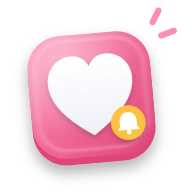
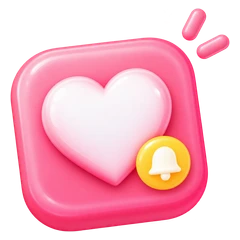
디자인 개선: 가게 마스코트(홈 인사 카드·첫 실행·진단 결과·빈 화면·리뷰 창), 화면 위 그림 20개 고급 입체로 교체, 작은 입체 아이콘 22개(알림 설정·MY·도움말·서류·홈 일정), 지원금마다 다른 그림 25장(지역 풍경)

diff --git a/src/App.jsx b/src/App.jsx
@@ -107,7 +107,12 @@ import toolFaqImg from "./assets/home-tiles/tool-faq-icon.webp";
 import toolDocsImg from "./assets/home-tiles/tool-docs-icon.webp";
 import calcArtImg from "./assets/home-tiles/calc-art.webp";
 import noticeImg from "./assets/home-tiles/notice.webp";
-import heroMegaImg from "./assets/home-tiles/hero-mega.webp";
+import mascotCoinImg from "./assets/mascot/coin.webp";
+import mascotHelloImg from "./assets/mascot/hello.webp";
+import mascotCheerImg from "./assets/mascot/cheer.webp";
+import mascotEmptyImg from "./assets/mascot/empty.webp";
+import mascotSearchImg from "./assets/mascot/search.webp";
+import mascotBellImg from "./assets/mascot/bell.webp";
 import ctaCoinImg from "./assets/home-tiles/cta-coin.webp";
 import newsFundImg from "./assets/news/fund.webp";
 import newsFixedImg from "./assets/news/fixed.webp";
@@ -675,7 +680,7 @@ function ReviewAskDialog({ callName, stats, onExit, onReview, onClose }) {
   return (
     <div className="fixed inset-0 flex items-center justify-center px-4" style={{ zIndex: 70, background: "rgba(20,24,36,0.55)" }} onClick={onClose}>
       <div onClick={(e) => e.stopPropagation()} className="w-full rounded-[26px] bg-white px-5 pt-7 pb-4 text-center" style={{ maxWidth: 340, boxShadow: "0 20px 50px rgba(0,0,0,0.25)" }}>
-        <img src="/icons/icon-192.png" alt="" className="w-[68px] h-[68px] mx-auto rounded-[20px]" style={{ boxShadow: "0 8px 18px rgba(214,140,20,0.25)" }} />
+        <img src={mascotCoinImg} alt="" draggable={false} className="w-[104px] h-[104px] mx-auto object-contain -mt-2" />
         <div className="flex justify-center gap-1 mt-3.5">
           {[0, 1, 2, 3, 4].map((i) => (
             <Star key={i} size={22} fill="#FFC23D" strokeWidth={0} />
@@ -1192,9 +1197,7 @@ function NicknameScreen({ initial = "", firstRun, onSave, onSkip, onBack }) {
     <div className={firstRun ? "pt-8" : ""}>
       {firstRun ? (
         <div className="text-center mb-7">
-          <div className="w-20 h-20 mx-auto rounded-[26px] flex items-center justify-center mb-4" style={{ background: "linear-gradient(135deg, #6AAEFE, #3E72F6)", boxShadow: "0 10px 24px rgba(62,114,246,0.3)" }}>
-            <span className="text-[38px]">👋</span>
-          </div>
+          <img src={mascotHelloImg} alt="" draggable={false} className="w-[132px] h-[132px] mx-auto mb-3 object-contain" />
           <p className="text-[22px] font-extrabold" style={{ color: TEXT }}>반가워요!</p>
           <p className="text-[15px] mt-1.5" style={{ color: "#5E6577" }}>어떻게 불러드릴까요?</p>
         </div>
@@ -1682,6 +1685,17 @@ const CATEGORY_IMAGES = {
   신용: catCredit,
   재기: catRestart,
 };
+// 지원금마다 다른 그림: 전국 사업은 하는 일, 지역 사업은 그 지역 풍경 (없으면 분야 그림)
+const PROGRAM_IMG_FILES = import.meta.glob("./assets/prog/*.webp", { eager: true, import: "default" });
+const PROGRAM_IMG_KEY = {
+  voucher: "voucher", 1: "p1", 4: "p4", 23: "p23", 24: "p24", 25: "p25", 103: "p103", 102: "p102", 5: "p5",
+  2: "seoul", 3: "gyeonggi", 7: "daegu", 8: "incheon", 11: "gangwon", 12: "jeju", 13: "gwangju", 14: "daejeon", 15: "daejeon",
+  16: "gyeongnam", 17: "ulsan", 18: "chungbuk", 19: "sejong", 21: "chungnam", 22: "jeonbuk", 26: "hampyeong",
+};
+// 작은 입체 아이콘 (설정 줄·메뉴 등) — 이름으로 불러요
+const MINI_IMG_FILES = import.meta.glob("./assets/mini/*.webp", { eager: true, import: "default" });
+const mini = (name) => MINI_IMG_FILES[`./assets/mini/${name}.webp`];
+const programImage = (p) => PROGRAM_IMG_FILES[`./assets/prog/${PROGRAM_IMG_KEY[p.id]}.webp`] || CATEGORY_IMAGES[p.category];
 const CATEGORY_COLORS = {
   고정비: { color: "white", bg: "#22B573", bg2: "#3DDB94" },
   에너지: { color: "white", bg: "#EA9A1E", bg2: "#FBC15B" },
@@ -1853,8 +1867,8 @@ function ProgramSummaryCard({ program }) {
       className="relative overflow-hidden rounded-[24px] p-4 mb-3 flex items-center gap-3.5"
       style={{ background: `linear-gradient(135deg, ${groupOf(program).color}2E 0%, #FFFFFF 85%)`, border: "1px solid #EEF0F6" }}
     >
-      {CATEGORY_IMAGES[program.category] ? (
-        <img src={CATEGORY_IMAGES[program.category]} alt="" className="w-16 h-16 shrink-0 object-contain -my-1" />
+      {programImage(program) ? (
+        <img src={programImage(program)} alt="" className="w-16 h-16 shrink-0 object-contain -my-1" />
       ) : (
       <div
         className="w-14 h-14 rounded-full flex items-center justify-center shrink-0 relative overflow-hidden"
@@ -2876,6 +2890,8 @@ function CenterMapPreview({ center }) {
   );
 }
 // 자주 묻는 질문 (지원금 기본 상식 + 세금 + 앱 사용법)
+// 도움말 분류별 작은 입체 아이콘
+const FAQ_CAT_IMG = { "지원금 기본": "coin", "신청 방법": "pen", 세금: "receipt", "앱 이용": "phone" };
 // top: true 는 "많이 묻는 질문"으로 맨 위에 보여줘요
 const FAQ_DATA = [
   { category: "지원금 기본", top: true, q: "저도 '소상공인'에 해당하나요?", a: "상시근로자(사장님 제외) 수로 판단해요. 음식점·도소매·서비스업 등은 5명 미만, 제조·건설·운수·광업은 10명 미만이면 소상공인이에요. 여기에 업종별 매출 기준(소기업 기준) 이하여야 해요. 정확한 확인은 '중소기업현황정보시스템(sminfo.mss.go.kr)'에서 소상공인 확인서를 발급받아 보시면 돼요." },
@@ -2969,7 +2985,8 @@ function FaqSearchScreen({ onBack }) {
           const active = category === c;
           const n = c === "전체" ? FAQ_DATA.length : FAQ_DATA.filter((f) => f.category === c).length;
           return (
-            <button key={c} onClick={() => setCategory(c)} className="px-3 py-1.5 rounded-full text-xs font-semibold whitespace-nowrap shrink-0" style={active ? CHIP_ON : CHIP_OFF}>
+            <button key={c} onClick={() => setCategory(c)} className="px-3 py-1.5 rounded-full text-xs font-semibold whitespace-nowrap shrink-0 inline-flex items-center gap-1" style={active ? CHIP_ON : CHIP_OFF}>
+              {FAQ_CAT_IMG[c] && <img src={mini(FAQ_CAT_IMG[c])} alt="" className="w-[18px] h-[18px] -my-1 object-contain" />}
               {c} <span className="opacity-70">{n}</span>
             </button>
           );
@@ -2978,7 +2995,8 @@ function FaqSearchScreen({ onBack }) {
       </div>
 
       {filtered.length === 0 ? (
-        <div className="text-center py-14 text-sm" style={{ color: MUTED }}>
+        <div className="text-center py-10 text-sm" style={{ color: MUTED }}>
+          <img src={mascotSearchImg} alt="" draggable={false} className="w-[110px] h-[110px] mx-auto mb-2 object-contain" />
           검색 결과가 없어요.
           <br />
           아래 상담 전화로 편하게 물어보세요.
@@ -3145,7 +3163,7 @@ function DocumentsScreen({ onBack }) {
           <div key={g.key} className="mb-5">
             <div className="flex items-center justify-between gap-2 mb-2 px-1">
               <div className="flex items-center gap-2 min-w-0">
-                <span className="w-1 h-4 rounded-full shrink-0" style={{ background: g.color }} />
+                <img src={mini({ hometax: "hometax", gov24: "gov", etc: "folder", self: "handpen" }[g.key])} alt="" className="w-9 h-9 shrink-0 object-contain" />
                 <div className="min-w-0">
                   <p className="text-[14px] font-bold" style={{ color: TEXT }}>
                     {g.title} <span className="text-[12px] font-semibold tabular-nums" style={{ color: MUTED }}>{done}/{g.docs.length}</span>
@@ -4117,6 +4135,7 @@ function DiagnosisResultScreen({ diagnosis, onBack, onRedo, onClear, onViewAll, 
       {/* 결과 요약 */}
       <div className="relative overflow-hidden rounded-[24px] p-5 mb-3" style={{ background: "linear-gradient(135deg, #5B8DF7 0%, #3D63DD 100%)" }}>
         <div className="absolute -right-10 -top-12 w-40 h-40 rounded-full" style={{ background: "rgba(255,255,255,0.08)" }} />
+        {open.length > 0 && <img src={mascotCheerImg} alt="" draggable={false} className="absolute pointer-events-none" style={{ right: 4, top: 4, width: "22%", maxWidth: 104 }} />}
         <div className="relative flex items-center gap-1.5 mb-1.5">
           <CheckCircle2 size={15} color="white" />
           <p className="text-[12.5px] text-white/80">{callName}이 지금 신청할 수 있는</p>
@@ -4285,7 +4304,7 @@ function ProgramRow({ p, onClick, actions, reason, highlight }) {
   const dday = getDday(p.deadline);
   const grp = groupOf(p);
   const cat = { bg: grp.color };
-  const img = CATEGORY_IMAGES[p.category];
+  const img = programImage(p);
   const CatIcon = CATEGORY_ICON[p.category] || FileText;
   const urgent = !p.recurring && dday >= 0 && dday <= 7;
   const closed = dday < 0 && !p.recurring;
@@ -4363,8 +4382,8 @@ function HomeScheduleList({ favorites, myEvents, taxStaff, onOpen }) {
         const dt = parseLocalDate(x.deadline);
         return (
           <button key={x.key} onClick={onOpen} className="w-full flex items-center gap-3 py-3" style={{ borderTop: i > 0 ? "1px solid #F1F2F6" : "none" }}>
-            <span className="w-8 h-8 rounded-full flex items-center justify-center text-[14px] shrink-0" style={{ background: t.bg }}>
-              {x.type === "my" ? x.emoji : x.type === "tax" ? "🧾" : "💙"}
+            <span className="w-8 h-8 rounded-full flex items-center justify-center text-[14px] shrink-0" style={{ background: x.type === "my" ? t.bg : "transparent" }}>
+              {x.type === "my" ? x.emoji : <img src={mini(x.type === "tax" ? "receipt" : "coin")} alt="" className="w-8 h-8 object-contain" />}
             </span>
             <span className="flex-1 min-w-0 text-left">
               <span className="block text-[13.5px] font-semibold truncate" style={{ color: TEXT }}>{x.name}</span>
@@ -5828,16 +5847,14 @@ export default function App() {
         <HeroHeader icon={Bell} color="#E5674D" image={heroAlertImg} title="알림 설정" subtitle="마감일·세금 신고일·금리 발표일" headline="미리 알려드려요!" onBack={() => setScreen({ view: "home" })} />
         <div className="rounded-[20px] overflow-hidden" style={CARD}>
           {[
-            { key: "deadline", icon: Bell, color: "#E5674D", bg: "#FDEEE9", title: "지원금 마감 알림", sub: "즐겨찾기에서 🔔 켠 지원금", on: notifyEnabled, toggle: toggleNotifyEnabled },
-            { key: "tax", icon: CalendarCheck, color: "#2C9F6B", bg: "#E7F7EF", title: "세금 신고·납부일 알림", sub: "부가세·종합소득세 등", on: taxAlertOn, toggle: toggleTaxAlert },
-            { key: "rate", icon: Landmark, color: BLUE, bg: BLUE_SOFT, title: "금리 발표일 알림", sub: "한국은행 기준금리 발표 당일", on: rateAlertOn, toggle: toggleRateAlert },
+            { key: "deadline", img: "bell", icon: Bell, color: "#E5674D", bg: "#FDEEE9", title: "지원금 마감 알림", sub: "즐겨찾기에서 🔔 켠 지원금", on: notifyEnabled, toggle: toggleNotifyEnabled },
+            { key: "tax", img: "taxcal", icon: CalendarCheck, color: "#2C9F6B", bg: "#E7F7EF", title: "세금 신고·납부일 알림", sub: "부가세·종합소득세 등", on: taxAlertOn, toggle: toggleTaxAlert },
+            { key: "rate", img: "bank", icon: Landmark, color: BLUE, bg: BLUE_SOFT, title: "금리 발표일 알림", sub: "한국은행 기준금리 발표 당일", on: rateAlertOn, toggle: toggleRateAlert },
           ].map((r, i) => (
             <div key={r.key} style={{ borderTop: i > 0 ? "1px solid #F1F2F6" : "none" }}>
               <div className="px-4 py-3.5 flex items-center justify-between gap-3">
                 <div className="flex items-center gap-3 min-w-0">
-                  <div className="w-10 h-10 rounded-full flex items-center justify-center shrink-0" style={{ background: r.bg }}>
-                    <r.icon size={17} color={r.color} />
-                  </div>
+                  <img src={mini(r.img)} alt="" draggable={false} className="w-10 h-10 shrink-0 object-contain" />
                   <div className="min-w-0">
                     <p className="text-sm font-semibold" style={{ color: TEXT }}>{r.title}</p>
                     <p className="text-[12px]" style={{ color: MUTED }}>{r.sub}</p>
@@ -5871,15 +5888,13 @@ export default function App() {
         <p className="text-[13px] font-bold mt-5 mb-2.5 px-1" style={{ color: TEXT }}>알림 방식</p>
         <div className="rounded-[20px] overflow-hidden" style={CARD}>
           {[
-            { key: "sound", icon: Volume2, color: BLUE, bg: BLUE_SOFT, title: "소리", sub: "알림음이 울려요" },
-            { key: "vibe", icon: Vibrate, color: "#7B5CE0", bg: "#F0ECFB", title: "진동", sub: "휴대폰이 진동해요" },
-            { key: "popup", icon: BellRing, color: "#E5674D", bg: "#FDEEE9", title: "화면 위에 띄우기", sub: "사용 중에도 화면 위쪽에 잠깐 크게 보여요" },
+            { key: "sound", img: "speaker", icon: Volume2, color: BLUE, bg: BLUE_SOFT, title: "소리", sub: "알림음이 울려요" },
+            { key: "vibe", img: "vibe", icon: Vibrate, color: "#7B5CE0", bg: "#F0ECFB", title: "진동", sub: "휴대폰이 진동해요" },
+            { key: "popup", img: "popup", icon: BellRing, color: "#E5674D", bg: "#FDEEE9", title: "화면 위에 띄우기", sub: "사용 중에도 화면 위쪽에 잠깐 크게 보여요" },
           ].map((r, i) => (
             <div key={r.key} className="px-4 py-3.5 flex items-center justify-between gap-3" style={{ borderTop: i > 0 ? "1px solid #F1F2F6" : "none" }}>
               <div className="flex items-center gap-3 min-w-0">
-                <div className="w-10 h-10 rounded-full flex items-center justify-center shrink-0" style={{ background: r.bg }}>
-                  <r.icon size={17} color={r.color} />
-                </div>
+                <img src={mini(r.img)} alt="" draggable={false} className="w-10 h-10 shrink-0 object-contain" />
                 <div className="min-w-0">
                   <p className="text-sm font-semibold" style={{ color: TEXT }}>{r.title}</p>
                   <p className="text-[12px] break-keep" style={{ color: MUTED }}>{r.sub}</p>
@@ -5893,9 +5908,7 @@ export default function App() {
         <div className="rounded-[20px] mt-2.5 overflow-hidden" style={CARD}>
           <div className="px-4 py-3.5 flex items-center justify-between gap-3">
             <div className="flex items-center gap-3 min-w-0">
-              <div className="w-10 h-10 rounded-full flex items-center justify-center shrink-0" style={{ background: "#EEF0FB" }}>
-                <Moon size={17} color="#4B55A8" />
-              </div>
+              <img src={mini("moon")} alt="" draggable={false} className="w-10 h-10 shrink-0 object-contain" />
               <div className="min-w-0">
                 <p className="text-sm font-semibold" style={{ color: TEXT }}>방해금지 시간</p>
                 <p className="text-[12px] break-keep" style={{ color: MUTED }}>
@@ -5918,9 +5931,7 @@ export default function App() {
           )}
           <div className="px-4 py-3.5" style={{ borderTop: "1px solid #F1F2F6" }}>
             <div className="flex items-center gap-3 min-w-0 mb-3">
-              <div className="w-10 h-10 rounded-full flex items-center justify-center shrink-0" style={{ background: "#E7F7EF" }}>
-                <CalendarX size={17} color="#2C9F6B" />
-              </div>
+              <img src={mini("calx")} alt="" draggable={false} className="w-10 h-10 shrink-0 object-contain" />
               <div className="min-w-0">
                 <p className="text-sm font-semibold" style={{ color: TEXT }}>알림 안 받는 요일</p>
                 <p className="text-[12px] break-keep" style={{ color: MUTED }}>
@@ -5958,7 +5969,7 @@ export default function App() {
           className="w-full mt-2.5 py-3.5 rounded-2xl text-[13.5px] font-bold flex items-center justify-center gap-1.5 active:scale-[0.99] transition-transform"
           style={{ background: BLUE_SOFT, color: BLUE }}
         >
-          <BellRing size={15} /> {testSent ? "3초 뒤에 알림이 와요" : "알림 미리 받아보기"}
+          <img src={mascotBellImg} alt="" draggable={false} className="w-9 h-9 -my-2 object-contain" /> {testSent ? "3초 뒤에 알림이 와요" : "알림 미리 받아보기"}
         </button>
         <p className="text-[11px] mt-2 px-1 leading-relaxed break-keep" style={{ color: MUTED }}>
           휴대폰의 '방해 금지 모드'나 무음 모드가 켜져 있으면 소리·진동 없이 조용히 와요. 알림음 종류나 잠금화면에서 내용 숨기기는 휴대폰 설정 → 애플리케이션 → 받아가게 → 알림에서 바꿀 수 있어요.
@@ -6143,52 +6154,32 @@ export default function App() {
           <User size={23} color={TEXT} strokeWidth={2} />
         </button>
       </div>
+      {/* 홈 인사 카드: 가게 캐릭터가 동전을 받아 드는 모습 + 인사 말풍선 */}
       <div
-        className="relative overflow-hidden mb-3 pl-5 pr-4 pt-5 pb-5"
-        style={{ background: "linear-gradient(135deg, #6AAEFE 0%, #4E86FA 45%, #3E72F6 100%)", borderRadius: 28, boxShadow: "0 10px 24px rgba(62,114,246,0.25), inset 0 1px 0 rgba(255,255,255,0.35)" }}
+        className="relative overflow-hidden mb-3 flex items-center gap-1 pl-1 pr-4 py-3"
+        style={{ background: "linear-gradient(135deg, #F4F8FF 0%, #E6EFFF 100%)", borderRadius: 28, border: "1px solid #DCE6FF", boxShadow: "0 8px 20px rgba(62,114,246,0.12)" }}
       >
-        {/* 위쪽 은은한 광택 */}
-        <div className="absolute inset-0 pointer-events-none" style={{ background: "radial-gradient(110% 85% at 15% -15%, rgba(255,255,255,0.32) 0%, rgba(255,255,255,0) 55%)" }} />
-        {/* 배경 장식 원 */}
-        <div className="absolute -right-12 -top-16 w-48 h-48 rounded-full" style={{ background: "rgba(255,255,255,0.07)" }} />
-        <div className="absolute -left-10 -bottom-16 w-40 h-40 rounded-full" style={{ background: "rgba(255,255,255,0.05)" }} />
-        {/* 확성기 + 알림 말풍선 그림 (오른쪽 아래) */}
-        <div className="absolute right-0 top-0 bottom-0" style={{ aspectRatio: "340 / 350", maxWidth: "34%" }}>
-          <img
-            src={heroMegaImg}
-            alt=""
-            draggable={false}
-            className="w-full h-full object-contain object-right-bottom pointer-events-none"
-            style={{
-              WebkitMaskImage: "radial-gradient(ellipse 72% 72% at 55% 50%, #000 60%, transparent 100%)",
-              maskImage: "radial-gradient(ellipse 72% 72% at 55% 50%, #000 60%, transparent 100%)",
-            }}
-          />
-          {/* 그림 속 종 말풍선을 누르면 알림 설정(MY)으로 */}
-          <button
-            onClick={() => setScreen({ view: "alertSettings" })}
-            aria-label="알림 설정"
-            className="absolute z-10 rounded-full"
-            style={{ right: "4%", top: "2%", width: "36%", aspectRatio: "1 / 1" }}
-          />
-        </div>
-
-        <div className="relative z-10">
-          <p className="text-[15px] font-semibold" style={{ color: "rgba(255,255,255,0.95)" }}>{callName}, 안녕하세요 👋</p>
-          <h1 className="font-black mt-1 whitespace-nowrap" style={{ color: "white", fontSize: 21, lineHeight: 1.4, letterSpacing: "-0.03em" }}>
-            받을 혜택, 받아가게!
+        <div className="absolute -right-10 -top-14 w-40 h-40 rounded-full" style={{ background: "rgba(62,114,246,0.06)" }} />
+        <div className="absolute rounded-full pointer-events-none" style={{ left: "2%", top: "10%", width: "36%", aspectRatio: "1 / 1", background: "radial-gradient(circle, rgba(255,214,90,0.35) 0%, rgba(255,214,90,0) 65%)" }} />
+        <img src={mascotCoinImg} alt="" draggable={false} className="relative shrink-0 pointer-events-none" style={{ width: "36%", maxWidth: 170 }} />
+        <div className="relative min-w-0">
+          <div className="inline-block px-3 py-1.5 rounded-2xl rounded-bl-md text-[13px] font-semibold" style={{ background: "white", color: TEXT, boxShadow: "0 2px 8px rgba(0,0,0,0.06)" }}>
+            {callName}, 안녕하세요!
+          </div>
+          <h1 className="font-black mt-2" style={{ color: "#1F3A8A", fontSize: 21, lineHeight: 1.35, letterSpacing: "-0.03em" }}>
+            받을 혜택,<br />받아<span style={{ color: "#F07A12" }}>가게!</span>
           </h1>
-        </div>
-        {/* 안내용 표시 — 목록은 아래 '소상공인 지원금' 카드로 들어가요 */}
-        <div
-          className="relative z-10 mt-3.5 inline-flex items-center gap-1.5 px-3.5 py-2 rounded-full"
-          style={{ background: "rgba(255,255,255,0.2)", border: "1px solid rgba(255,255,255,0.25)" }}
-        >
-          {/* 초록 점: 몇 번만 깜박이고 멈춰요 (계속 깜박이면 화면을 쉬지 않고 다시 그려요) */}
-          <span className="w-1.5 h-1.5 rounded-full" style={{ background: "#81F5BE", boxShadow: "0 0 6px #81F5BE", animation: "dotPulse 2s cubic-bezier(0.4, 0, 0.6, 1) 2s 4" }} />
-          <span className="text-[12px] font-semibold text-white" style={{ lineHeight: 1.5 }}>
-            지금 신청할 수 있는 지원금 <b className="text-[14px] font-extrabold tabular-nums" style={{ color: "#FFE680" }}>{ALL_PROGRAMS.filter((p) => !isExpired(p)).length}</b>건
-          </span>
+          {/* 안내용 표시 — 목록은 아래 '소상공인 지원금' 카드로 들어가요 */}
+          <div
+            className="mt-3 inline-flex items-center gap-1.5 px-3.5 py-2 rounded-full"
+            style={{ background: "white", border: "1px solid #DCE6FF", boxShadow: "0 2px 6px rgba(62,114,246,0.08)" }}
+          >
+            {/* 초록 점: 몇 번만 깜박이고 멈춰요 (계속 깜박이면 화면을 쉬지 않고 다시 그려요) */}
+            <span className="w-1.5 h-1.5 rounded-full" style={{ background: "#22C27A", animation: "dotPulse 2s cubic-bezier(0.4, 0, 0.6, 1) 2s 4" }} />
+            <span className="text-[12px] font-semibold" style={{ lineHeight: 1.5, color: TEXT }}>
+              지금 신청할 수 있는 지원금 <b className="text-[14px] font-extrabold tabular-nums" style={{ color: "#3E72F6" }}>{ALL_PROGRAMS.filter((p) => !isExpired(p)).length}</b>건
+            </span>
+          </div>
         </div>
       </div>
 
@@ -6496,7 +6487,8 @@ export default function App() {
 
       <div className="space-y-2.5">
         {filtered.length === 0 && (
-          <div className="text-center py-14 text-sm" style={{ color: MUTED }}>
+          <div className="text-center py-10 text-sm" style={{ color: MUTED }}>
+            <img src={mascotSearchImg} alt="" draggable={false} className="w-[110px] h-[110px] mx-auto mb-2 object-contain" />
             조건에 맞는 지원금이 없어요.
           </div>
         )}
@@ -6544,7 +6536,7 @@ export default function App() {
           )}
           {favCount === 0 ? (
             <div className="rounded-[22px] px-5 py-8 text-center" style={CARD}>
-              <img src={heroFavImg} alt="" className="w-[88px] h-[88px] mx-auto mb-2 object-contain" />
+              <img src={mascotEmptyImg} alt="" draggable={false} className="w-[124px] h-[124px] mx-auto mb-2 object-contain" />
               <p className="text-[15px] font-bold" style={{ color: TEXT }}>아직 저장한 지원금이 없어요</p>
               <p className="text-[12.5px] mt-1.5 break-keep" style={{ color: MUTED }}>지원금 목록에서 ♡를 누르면 여기에 모이고, 마감 전에 알림도 받을 수 있어요</p>
               <button
@@ -6720,7 +6712,7 @@ export default function App() {
           <p className="text-[13px] font-bold mb-2.5 px-1" style={{ color: TEXT }}>내 정보</p>
           <button onClick={() => setScreen({ view: "nickname" })} className="w-full text-left rounded-[22px] px-4 py-3.5 mb-2.5 flex items-center justify-between gap-3 active:scale-[0.99] transition-transform" style={CARD}>
             <div className="flex items-center gap-3 min-w-0">
-              <img src={heroNameImg} alt="" className="w-11 h-11 shrink-0 object-contain" />
+              <img src={mini("nametag")} alt="" className="w-11 h-11 shrink-0 object-contain" />
               <div className="min-w-0">
                 <p className="text-[14.5px] font-bold" style={{ color: TEXT }}>내 이름</p>
                 <p className="text-[12px] truncate" style={{ color: MUTED }}>{nickname ? `${callName}으로 불러드려요` : "아직 설정 전이에요 · 지금은 '사장님'으로 불러요"}</p>
@@ -6730,7 +6722,7 @@ export default function App() {
           </button>
           <button onClick={openPicker} className="w-full text-left rounded-[22px] px-4 py-3.5 mb-2.5 flex items-center justify-between gap-3 active:scale-[0.99] transition-transform" style={CARD}>
             <div className="flex items-center gap-3 min-w-0">
-              <img src={heroRegionImg} alt="" className="w-11 h-11 shrink-0 object-contain" />
+              <img src={mini("pin")} alt="" className="w-11 h-11 shrink-0 object-contain" />
               <div className="min-w-0">
                 <p className="text-[14.5px] font-bold" style={{ color: TEXT }}>내 지역</p>
                 <p className="text-[12px] truncate" style={{ color: MUTED }}>
@@ -6746,7 +6738,7 @@ export default function App() {
             style={CARD}
           >
             <div className="flex items-center gap-3 min-w-0">
-              <img src={ctaCoinImg} alt="" className="w-11 h-11 shrink-0 object-contain" />
+              <img src={mini("clip")} alt="" className="w-11 h-11 shrink-0 object-contain" />
               <div className="min-w-0">
                 <p className="text-[14.5px] font-bold" style={{ color: TEXT }}>맞춤 진단</p>
                 <p className="text-[12px] truncate" style={{ color: MUTED }}>
@@ -6759,7 +6751,7 @@ export default function App() {
           <p className="text-[13px] font-bold mb-2.5 px-1 mt-5" style={{ color: TEXT }}>알림</p>
           <button onClick={() => setScreen({ view: "alertSettings" })} className="w-full text-left rounded-[22px] px-4 py-3.5 mb-5 flex items-center justify-between gap-3 active:scale-[0.99] transition-transform" style={CARD}>
             <div className="flex items-center gap-3 min-w-0">
-              <img src={heroAlertImg} alt="" className="w-11 h-11 shrink-0 object-contain" />
+              <img src={mini("bell")} alt="" className="w-11 h-11 shrink-0 object-contain" />
               <div className="min-w-0">
                 <p className="text-[14.5px] font-bold" style={{ color: TEXT }}>알림 설정</p>
                 <p className="text-[12px] truncate" style={{ color: MUTED }}>
@@ -6779,7 +6771,7 @@ export default function App() {
             className="w-full text-left rounded-[22px] px-4 py-3.5 mt-1 mb-5 flex items-center gap-3 active:scale-[0.99] transition-transform"
             style={{ ...CARD, background: "linear-gradient(135deg, #FFF4DE 0%, #FFFFFF 75%)", border: "1px solid #FBE3B5" }}
           >
-            <span className="w-11 h-11 rounded-2xl flex items-center justify-center shrink-0 text-[22px]" style={{ background: "#FFE7B3" }}>📣</span>
+            <img src={mini("share")} alt="" className="w-11 h-11 shrink-0 object-contain" />
             <span className="flex-1 min-w-0">
               <span className="block text-[14.5px] font-bold" style={{ color: TEXT }}>동료 사장님께 알려주기</span>
               <span className="block text-[12px] break-keep" style={{ color: MUTED }}>카카오톡·문자 등으로 받아가게를 추천해요</span>
@@ -6790,8 +6782,8 @@ export default function App() {
           <p className="text-[13px] font-bold mb-2.5 px-1 mt-4" style={{ color: TEXT }}>약관·정보</p>
           <div className="rounded-[22px] overflow-hidden mb-3" style={CARD}>
             {[
-              { key: "privacy", label: "개인정보처리방침" },
-              { key: "terms", label: "이용약관" },
+              { key: "privacy", label: "개인정보처리방침", img: "lockdoc" },
+              { key: "terms", label: "이용약관", img: "doc" },
             ].map((item, i) => (
               <button
                 key={item.key}
@@ -6799,7 +6791,7 @@ export default function App() {
                 className="w-full text-left px-4 py-3.5 flex items-center justify-between"
                 style={i > 0 ? { borderTop: `1px solid ${BORDER}` } : {}}
               >
-                <span className="text-sm font-semibold" style={{ color: TEXT }}>{item.label}</span>
+                <span className="flex items-center gap-2.5 text-sm font-semibold" style={{ color: TEXT }}><img src={mini(item.img)} alt="" className="w-7 h-7 object-contain" />{item.label}</span>
                 <ChevronRight size={16} color={MUTED} />
               </button>
             ))}
